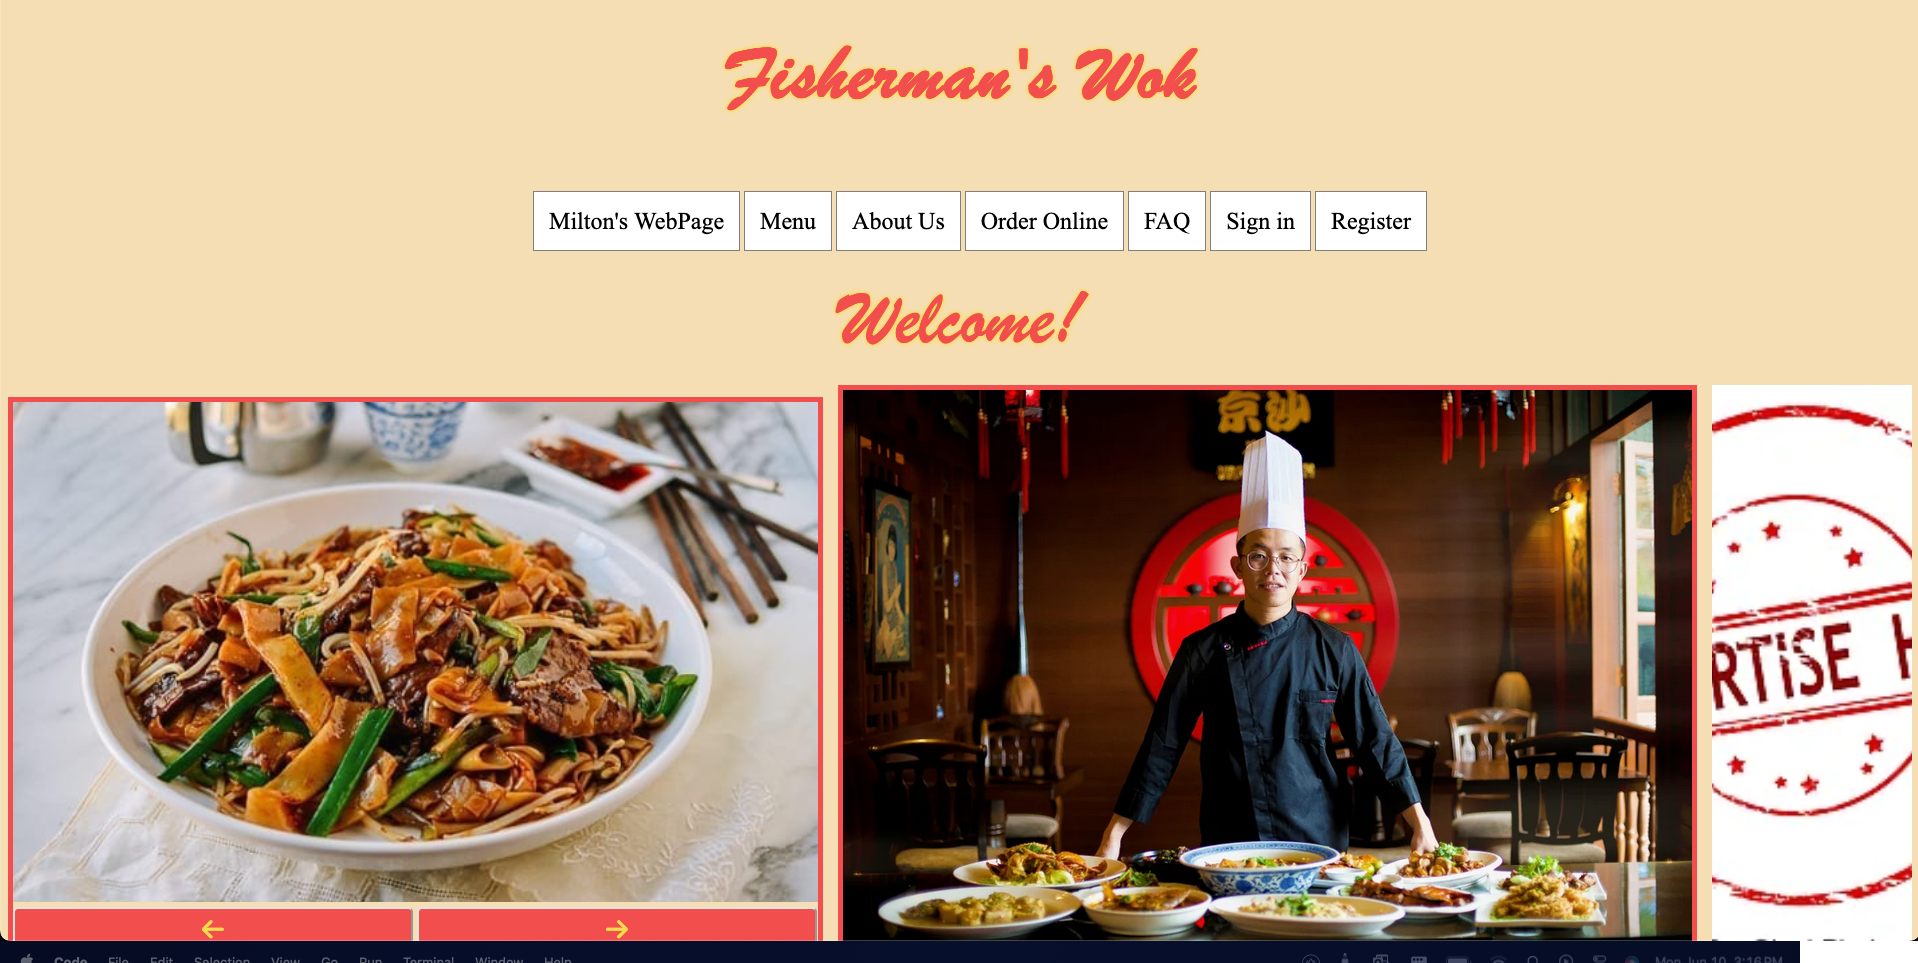
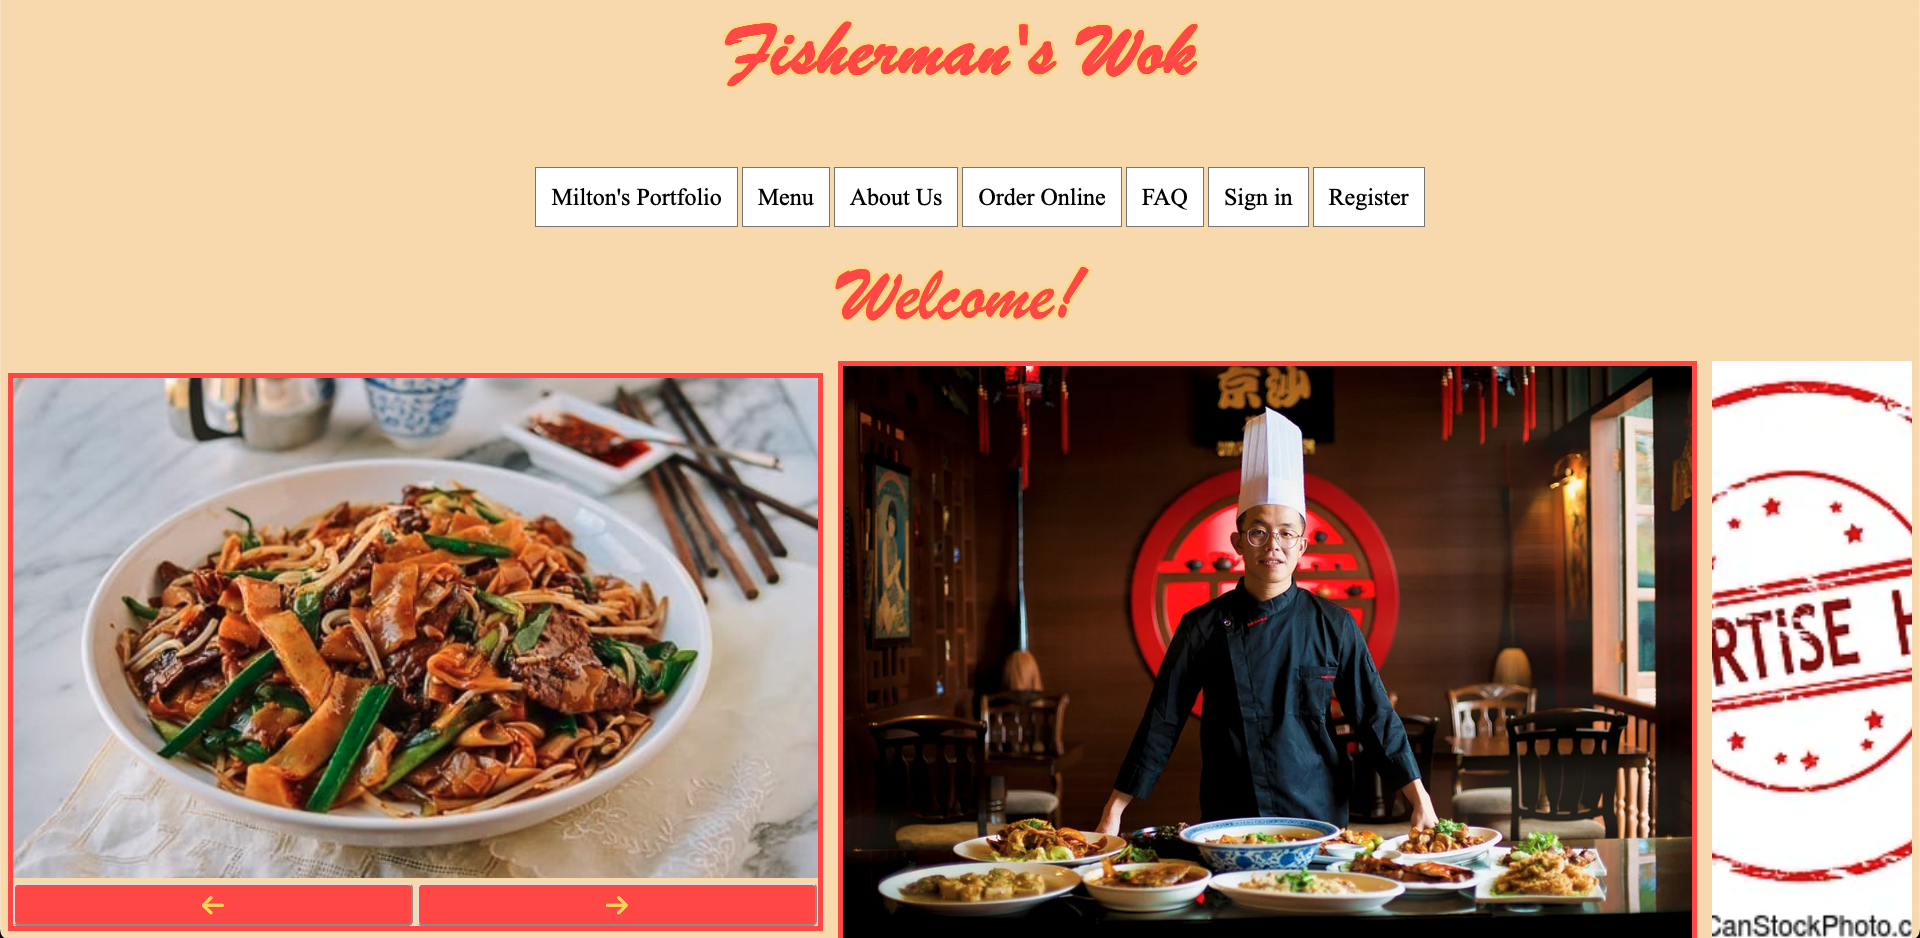
Changed structure to be more modular

diff --git a/pages/portfolio.html b/pages/portfolio.html
@@ -25,25 +25,87 @@
 
 <body>
     <div class="content-body">
+        <div class="content-container">
+            <div class="description">
+                <div class="text">
+                    <a href="../FishermansWok/HomePage.html">Fisherman's Wok</a> is a website my group an I worked
+        on in our Web Development class. I worked on the home page, registration, and login. Link to the unmodified github repo is <a href="https://github.com/MiltonTomasino/GroupProject2">here.</a>
+        This repo includes code for database integration using SQL that allows the registration/login to function. However, the database is offline now
+        so I have a functional version without the database.
+        The website linked ealier and the image is a slightly modified verson that has a link back to this page.
+                </div>
+            </div>
+            <div class="carousel-container">
+                <div class="image-container">
+                    <a href="../FishermansWok/HomePage.html">
+                        <img class="picture C1" src="../Images/FW_home.png" alt="FishermansWok">
+                    </a>
 
-        <table class="portfolio-table">
-            <tr>
-                <td class="text"><a href="../FishermansWok/HomePage.html">Fisherman's Wok</a> is a website my group an I worked
-                on in our Web Development class. I worked on the home page, registration, and login. Link to the unmodified github repo is <a href="https://github.com/MiltonTomasino/GroupProject2">here.</a>
+                    <a href="../FishermansWok/HomePage.html">
+                        <img class="picture C1" src="../Images/FW_register.png" alt="FishermansWok">
+                    </a>
 
-                The website linked ealier and the image is a slightly modified verson that has a link back to this page
-                </td>
-                <td class="image-wrapper">
-                    <div class="image">
-                        <a href="../FishermansWok/HomePage.html">
-                            <img src="../Images/FW_home.png" alt="FishermansWok" width="300px" height="200px">
-                        </a>
-                    </div>
-                </td>
-            </tr>
-        </table>
+                    <a href="../FishermansWok/HomePage.html">
+                        <img class="picture C1" src="../Images/FW_login.png" alt="FishermansWok">
+                    </a>
 
+                    <button class="carousel-button-left" onclick="plusSlides(-1, 'C1', 0)">&#8592;</button>
+					<button class="carousel-button-right" onclick="plusSlides(1, 'C1', 0)">&#8594;</button>
+                </div>
+            </div>
+        </div>
+        <div class="content-container">
+            <div class="description">
+                <div class="text">
+                    This PokeTrivia app was for an IOS development class. It was one of the projects I had a lot of fun creating. It was something I was interested in
+                    which meant I put a lot of effort trying to make it as good as I could. I also plan to update it since I enjoyed 
+                    working on it.
+                    <a href="https://github.com/MiltonTomasino/PokeTrivia_IOS">Link</a> to public PokeTrivia app repo on github for more details.
+                </div>
+            </div>
+            <div class="carousel-container">
+                <div class="image-container">
+                    <a href="https://github.com/MiltonTomasino/PokeTrivia_IOS">
+                        <img class="picture2 C2" src="../Images/PT_IOS1.png" alt="FishermansWok">
+                    </a>
+
+                    <a href="https://github.com/MiltonTomasino/PokeTrivia_IOS">
+                        <img class="picture2 C2" src="../Images/PT_grid.png" alt="FishermansWok">
+                    </a>
+
+                    <a href="https://github.com/MiltonTomasino/PokeTrivia_IOS">
+                        <img class="picture2 C2" src="../Images/PT_check.png" alt="FishermansWok">
+                    </a>
+
+                    <a href="https://github.com/MiltonTomasino/PokeTrivia_IOS">
+                        <img class="picture2 C2" src="../Images/PT_dex.png" alt="FishermansWok">
+                    </a>
+    
+                    <button class="carousel-button-left" onclick="plusSlides(-1, 'C2', 1)">&#8592;</button>
+                    <button class="carousel-button-right" onclick="plusSlides(1, 'C2', 1)">&#8594;</button>
+                </div>
+            </div>
+        </div>
     </div>
 </body>
 
+<script src="/javascript/image_carousel.js"></script>
+
 </html>
+
+<!-- <table class="portfolio-table">
+    <tr>
+        <td class="text"><a href="../FishermansWok/HomePage.html">Fisherman's Wok</a> is a website my group an I worked
+        on in our Web Development class. I worked on the home page, registration, and login. Link to the unmodified github repo is <a href="https://github.com/MiltonTomasino/GroupProject2">here.</a>
+
+        The website linked ealier and the image is a slightly modified verson that has a link back to this page
+        </td>
+        <td class="image-wrapper">
+            <div class="image">
+                <a href="../FishermansWok/HomePage.html">
+                    <img src="../Images/FW_home.png" alt="FishermansWok" width="300px" height="200px">
+                </a>
+            </div>
+        </td>
+    </tr>
+</table> -->

diff --git a/Styles/portfolio.css b/Styles/portfolio.css
@@ -4,6 +4,7 @@
     /* border-style: solid;
     border-color: red; */
     display: flex;
+    flex-wrap: wrap;
     justify-content: center;
 }
 
@@ -23,10 +24,6 @@
     text-align: center;
 }
 
-.text{
-    width: 50%;
-}
-
 .image-wrapper{
     display: flex;
     justify-content: center;
@@ -35,5 +32,64 @@
 .image img:hover{
     opacity: 50%;
     cursor: pointer;
+}
+
+.content-container{
+    width: 100%;
+    /* border-style: solid;
+    border-color: blue; */
+    border-top: 2px solid black;
+    display: flex;
+    flex-wrap: wrap;
+    justify-content: center;
+    max-height: 100%;
+}
+
+.description{
+    /* border-style: solid;
+    border-color: green; */
+    border-right: 2px solid black;
+    margin: 5rem;
+    max-width: 50%;
+    text-align: center;
+    display: flex;
+    justify-content: center;
+    align-items: center;
+    flex: 1;
+}
+
+.text{
+    /* border-style: solid;
+    border-color: pink; */
+    padding: 3rem;
+    width: 100%;
+    max-width: 100%;
+    font-size: 23px;
+    word-wrap: break-word;
+    overflow: hidden;
+}
+
+.image-container img{
+    border-style: solid;
+    border-color: yellow;
+    margin: 2rem;
+    width: 700px;
+    height: 400px;
+}
+
+.picture:hover, .picture2:hover{
+    opacity: 50%;
+}
+
+.carousel-button-left{
+    position: relative;
+    top: -250px;
+    right: -40px;
+}
+
+.carousel-button-right{
+    position: relative;
+    top: -250px;
+    right: -695px;
 }
 

diff --git a/javascript/image_carousel.js b/javascript/image_carousel.js
@@ -1,0 +1,26 @@
+let slideIndices = [1, 1];
+
+showSlides(1, 'C1', 0);
+showSlides(1, 'C2', 1);
+
+function plusSlides(n, carouselClass, carouselIndex) {
+    showSlides(slideIndices[carouselIndex] += n, carouselClass, carouselIndex);
+}
+
+function showSlides(n, carouselClass, carouselIndex) {
+    let i;
+    let slides = document.getElementsByClassName(carouselClass);
+
+    if (n > slides.length) {
+        slideIndices[carouselIndex] = 1;
+    }
+    if (n < 1) {
+        slideIndices[carouselIndex] = slides.length;
+    }
+
+    for (i = 0; i < slides.length; i++) {
+        slides[i].style.display = "none";
+    }
+
+    slides[slideIndices[carouselIndex] - 1].style.display = "block";
+}
